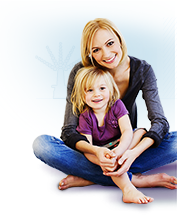
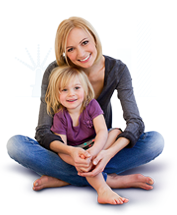
fixing client feedback

diff --git a/app/css/sections/_home-mobile.scss b/app/css/sections/_home-mobile.scss
@@ -233,13 +233,19 @@
       background: url("../img/mobile/homepage/bg-review.png") repeat-x right top;
       margin-bottom:10px;
       .inner-review{
-        background: url("../img/mobile/homepage/family-review.png") no-repeat right 33px;
+        background-image: url("../img/mobile/homepage/family-review.png");
+        background-repeat: no-repeat;
+        background-position: 120% 39px;
         padding-left:20px;
         padding-right:20px;
         padding-top:40px;
         background-size:177px auto;
         display: block;
         height: 260px;
+
+        @media all and (min-width: 768px) and (max-width: 1024px){
+          background-position: 87% 33px;
+        }
         .head-inner{
           width: 70%;
           margin-bottom: 26px;
@@ -522,7 +528,7 @@
 }
 
   .home-section .home-mobile .preference-section .back-preference .preference-parr{
-    padding-top: 32px;
+    padding-top: 21px;
   }
 
   .home-section .home-mobile .slider .borderbottom{
@@ -569,6 +575,16 @@
     padding: 8px 2px 8px 11px;
   }
 
+  .home-section .home-mobile .inner-ctas.low-links .cta span{
+    padding: 14px 2px 3px 11px;
+  }
+
+  .home-section .home-mobile .inner-ctas.low-links .cta.cta-last span{
+    padding: 3px 2px 3px 11px;
+  }
+
+  
+
   .home-section .home-mobile .review-section .inner-review .head-inner{
     width: 35%;
     margin-left: auto;
@@ -589,6 +605,10 @@
     width:65%;
     margin-left: auto;
     margin-right: auto;
+
+    @media all and (min-width: 768px) and (max-width: 1024px){
+      width:50%;
+    }
   }
 
   .home-section .home-mobile .discover-section .inner-discover .inner-ctas .maria-img{
